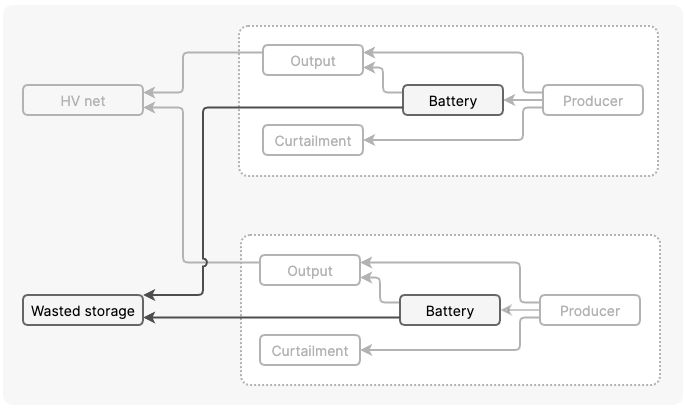
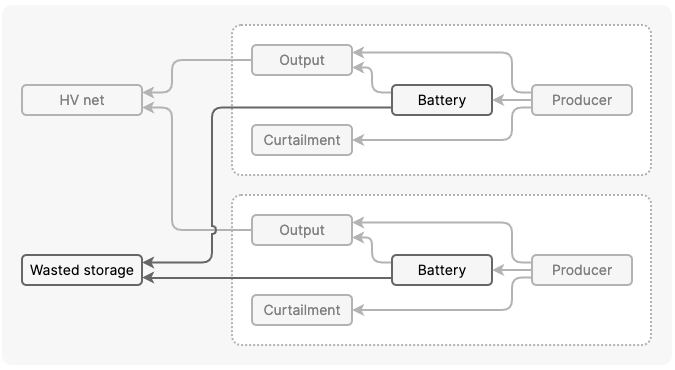
Add diagram showing always-on park edge attributes

diff --git a/docs/contrib/always-on-battery-parks.md b/docs/contrib/always-on-battery-parks.md
@@ -27,6 +27,13 @@ A battery park requires five nodes to be added to the graph:
 
 All edges between nodes are reversed share edges, except that from the battery to wasted storage which should be `inversed_flexible`.
 
+<div style={{ textAlign: "center" }}>
+  <img
+    alt=""
+    src={useBaseUrl("/img/docs/contrib/always-on-battery-park-edges.png")}
+  />
+</div>
+
 The "Wasted storage" node does not need to be unique to the battery park; many parks may share the same node.
 
 <div style={{ textAlign: "center" }}>
